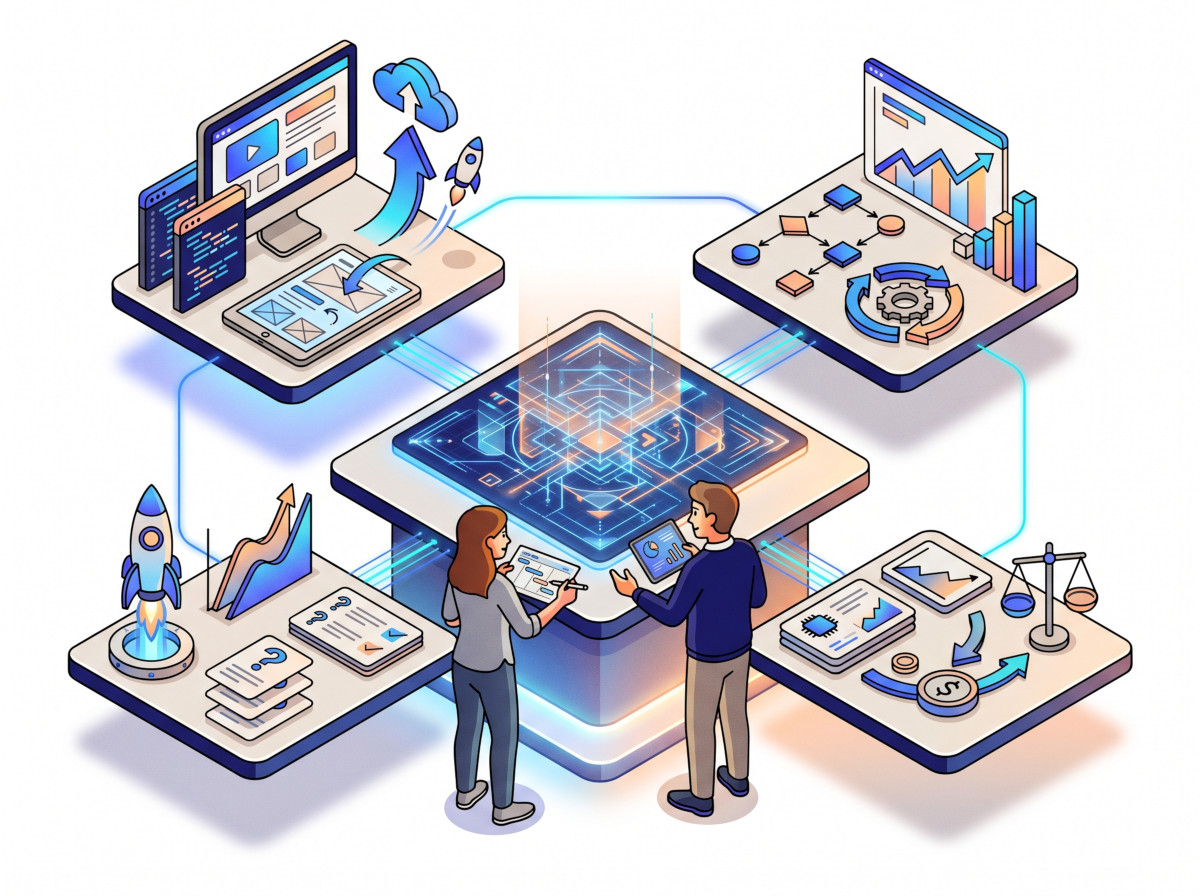
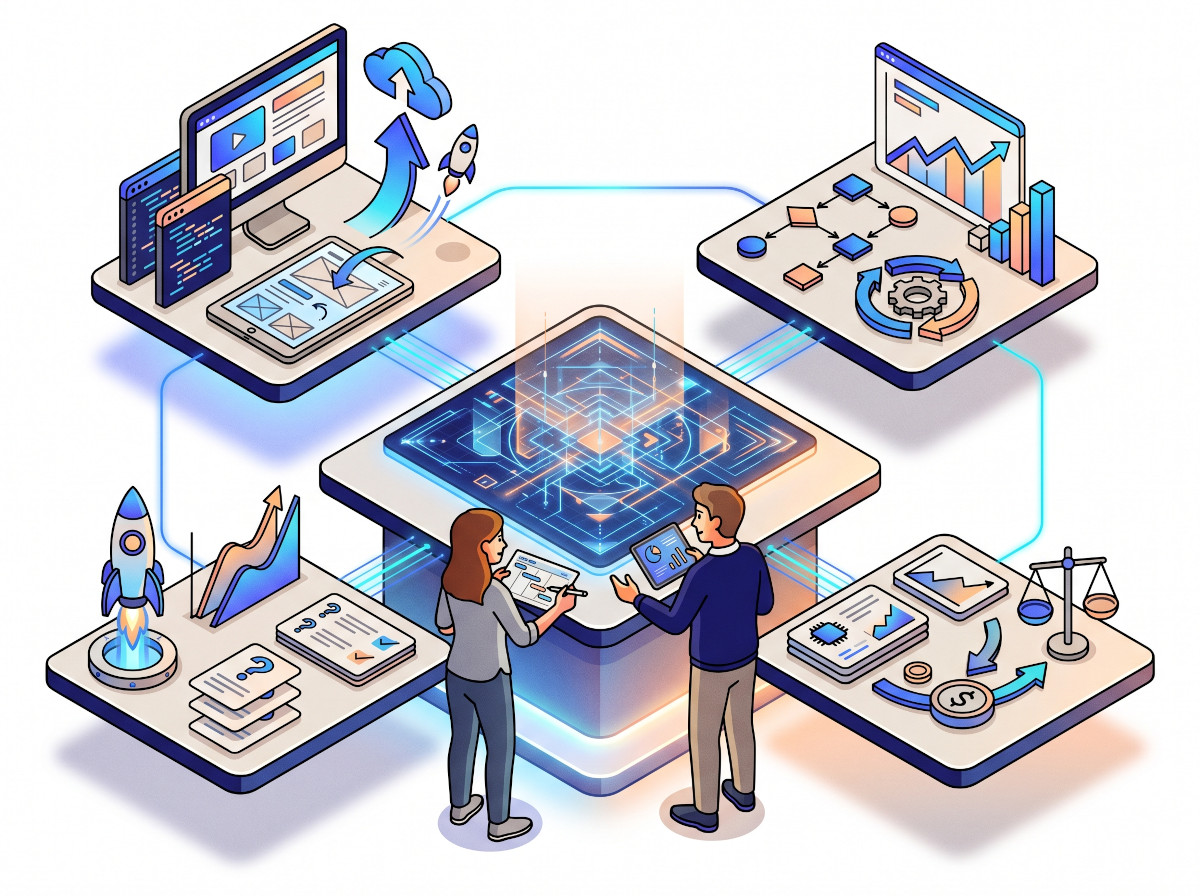
Update site visuals and service imagery

diff --git a/assets/css/main.css b/assets/css/main.css
@@ -1043,31 +1043,61 @@ p {
   align-content: start;
 }
 
-.direction-hero-visual {
+.direction-hero-visual,
+.service-hero-visual {
   min-height: 310px;
   border: 0;
-  border-radius: 0;
+  border-radius: var(--radius-lg);
   background-color: transparent;
   background-position: center;
   background-repeat: no-repeat;
-  background-size: contain;
-  overflow: visible;
+  background-size: cover;
+  aspect-ratio: 1200 / 896;
+  overflow: hidden;
 }
 
 .direction-hero-visual--studio {
-  background-image: url("../images/direction-studio.svg?v=2");
+  background-image: url("../images/axionica_studio_img.jpg");
 }
 
 .direction-hero-visual--consulting {
-  background-image: url("../images/direction-consulting.svg?v=2");
+  background-image: url("../images/axionica_consulting_img.jpg");
 }
 
 .direction-hero-visual--accelerator {
-  background-image: url("../images/direction-accelerator.svg?v=2");
+  background-image: url("../images/axionica_acceleration_img.jpg");
 }
 
 .direction-hero-visual--capital {
-  background-image: url("../images/direction-capital.svg?v=2");
+  background-image: url("../images/axionica_capital_img.jpg");
+}
+
+.service-hero-visual--discovery {
+  background-image: url("../images/service_discovery_img.jpg");
+}
+
+.service-hero-visual--development {
+  background-image: url("../images/service_development_img.jpg");
+}
+
+.service-hero-visual--consulting {
+  background-image: url("../images/service_consulting_img.jpg");
+}
+
+.service-hero-visual--ai-automation {
+  background-image: url("../images/service_aiautomation_img.jpg");
+}
+
+.service-hero-visual--ai-education {
+  background-image: url("../images/service_aieducation_img.jpg");
+}
+
+.service-hero-visual--tracking {
+  background-image: url("../images/service_tracking_img.jpg");
+}
+
+.service-hero-visual--investpack {
+  background-image: url("../images/service_investpack_img.jpg");
 }
 
 .breadcrumbs {
@@ -1374,7 +1404,8 @@ p {
     padding-bottom: 32px;
   }
 
-  .direction-hero-visual {
+  .direction-hero-visual,
+  .service-hero-visual {
     min-height: 240px;
   }
 
@@ -1432,7 +1463,8 @@ p {
     padding: 56px 0 24px;
   }
 
-  .direction-hero-visual {
+  .direction-hero-visual,
+  .service-hero-visual {
     min-height: 190px;
   }
 

diff --git a/ru/it-consulting.html b/ru/it-consulting.html
@@ -75,12 +75,15 @@
                 <li><span aria-current="page">IT-консалтинг</span></li>
               </ol>
             </nav>
-            <div class="section-heading fade-in">
+            <div class="page-hero-grid">
+              <div class="section-heading fade-in">
               <h1>IT-консалтинг для процессов, архитектуры и управляемой разработки</h1>
               <p>
                 Разбираем бизнес-процессы, IT-ландшафт, процессы разработки, архитектуру и программную реализацию,
                 чтобы найти ограничения, снизить операционные и трансакционные издержки и вернуть прозрачность решений.
               </p>
+              </div>
+              <div class="service-hero-visual service-hero-visual--consulting fade-in" aria-hidden="true"></div>
             </div>
           </div>
         </section>

diff --git a/ru/product-studio.html b/ru/product-studio.html
@@ -75,12 +75,15 @@
                 <li><span aria-current="page">Заказная разработка</span></li>
               </ol>
             </nav>
-            <div class="section-heading fade-in">
+            <div class="page-hero-grid">
+              <div class="section-heading fade-in">
               <h1>Разработка продукта с понятной логикой работы и реализации</h1>
               <p>
                 Эта услуга нужна, когда проекту важны и технологическая реализация, и ясная организация работы:
                 что делать первым, как структурировать delivery и как сохранить прозрачность для бизнеса.
               </p>
+              </div>
+              <div class="service-hero-visual service-hero-visual--development fade-in" aria-hidden="true"></div>
             </div>
           </div>
         </section>

diff --git a/ru/startup-packaging.html b/ru/startup-packaging.html
@@ -75,12 +75,15 @@
                 <li><span aria-current="page">Упаковка для инвесторов</span></li>
               </ol>
             </nav>
-            <div class="section-heading fade-in">
+            <div class="page-hero-grid">
+              <div class="section-heading fade-in">
               <h1>Упаковка стартапа для следующего разговора с инвестором или партнером</h1>
               <p>
                 Упаковка здесь означает не декоративный pitch deck, а работу над тем,
                 чтобы стартап был понятен по логике бизнеса, экономике, рискам и следующему шагу.
               </p>
+              </div>
+              <div class="service-hero-visual service-hero-visual--investpack fade-in" aria-hidden="true"></div>
             </div>
           </div>
         </section>

diff --git a/ru/discovery.html b/ru/discovery.html
@@ -75,12 +75,15 @@
                 <li><span aria-current="page">Discovery / аудит</span></li>
               </ol>
             </nav>
-            <div class="section-heading fade-in">
+            <div class="page-hero-grid">
+              <div class="section-heading fade-in">
               <h1>Подготовка к разработке, которая помогает не сжечь бюджет на старте</h1>
               <p>
                 Discovery нужен, когда важно сначала понять задачу и риски, а потом уже писать код.
                 Это этап, который помогает прояснить scope, архитектуру, roadmap, экономику и приоритеты.
               </p>
+              </div>
+              <div class="service-hero-visual service-hero-visual--discovery fade-in" aria-hidden="true"></div>
             </div>
           </div>
         </section>

diff --git a/ru/ai-training.html b/ru/ai-training.html
@@ -76,12 +76,15 @@
                 <li><span aria-current="page">ИИ-обучение сотрудников</span></li>
               </ol>
             </nav>
-            <div class="section-heading fade-in">
+            <div class="page-hero-grid">
+              <div class="section-heading fade-in">
               <h1>ИИ-обучение сотрудников</h1>
               <p>
                 Обучаем сотрудников применять ИИ-инструменты в реальных рабочих задачах,
                 чтобы команда могла использовать ИИ аккуратно, осознанно и без постоянной внешней зависимости.
               </p>
+              </div>
+              <div class="service-hero-visual service-hero-visual--ai-education fade-in" aria-hidden="true"></div>
             </div>
           </div>
         </section>

diff --git a/ru/ai-automation.html b/ru/ai-automation.html
@@ -76,12 +76,15 @@
                 <li><span aria-current="page">ИИ-автоматизация процессов</span></li>
               </ol>
             </nav>
-            <div class="section-heading fade-in">
+            <div class="page-hero-grid">
+              <div class="section-heading fade-in">
               <h1>ИИ-автоматизация процессов</h1>
               <p>
                 Помогаем разобрать повторяемый бизнес-процесс, выбрать участок для автоматизации,
                 внедрить ИИ-инструменты и измерить результат до и после изменений.
               </p>
+              </div>
+              <div class="service-hero-visual service-hero-visual--ai-automation fade-in" aria-hidden="true"></div>
             </div>
           </div>
         </section>

diff --git a/ru/startup-tracking.html b/ru/startup-tracking.html
@@ -75,12 +75,15 @@
                 <li><span aria-current="page">Стартап-трекинг</span></li>
               </ol>
             </nav>
-            <div class="section-heading fade-in">
+            <div class="page-hero-grid">
+              <div class="section-heading fade-in">
               <h1>Трекинг стартапа от идеи и MVP до первых признаков роста</h1>
               <p>
                 Эта страница про работу со стартапом после первых запусков:
                 гипотезы, трекинг, упаковку и подготовку к следующему этапу.
               </p>
+              </div>
+              <div class="service-hero-visual service-hero-visual--tracking fade-in" aria-hidden="true"></div>
             </div>
           </div>
         </section>

diff --git a/en/product-studio.html b/en/product-studio.html
@@ -75,12 +75,15 @@
                 <li><span aria-current="page">Custom development</span></li>
               </ol>
             </nav>
-            <div class="section-heading fade-in">
+            <div class="page-hero-grid">
+              <div class="section-heading fade-in">
               <h1>Product development with a clear working model and implementation logic</h1>
               <p>
                 This service is relevant when a project needs both technical execution and a clear way of working:
                 what to build first, how to structure delivery and how to keep the process transparent for the business.
               </p>
+              </div>
+              <div class="service-hero-visual service-hero-visual--development fade-in" aria-hidden="true"></div>
             </div>
           </div>
         </section>

diff --git a/en/discovery.html b/en/discovery.html
@@ -75,12 +75,15 @@
                 <li><span aria-current="page">Discovery / audit</span></li>
               </ol>
             </nav>
-            <div class="section-heading fade-in">
+            <div class="page-hero-grid">
+              <div class="section-heading fade-in">
               <h1>Preparation for development that helps avoid burning budget too early</h1>
               <p>
                 Discovery is useful when the right first step is not writing code, but understanding the problem,
                 the risks and the real product scope. It helps clarify architecture, roadmap, economics and priorities.
               </p>
+              </div>
+              <div class="service-hero-visual service-hero-visual--discovery fade-in" aria-hidden="true"></div>
             </div>
           </div>
         </section>

diff --git a/en/it-consulting.html b/en/it-consulting.html
@@ -75,12 +75,15 @@
                 <li><span aria-current="page">IT consulting</span></li>
               </ol>
             </nav>
-            <div class="section-heading fade-in">
+            <div class="page-hero-grid">
+              <div class="section-heading fade-in">
               <h1>IT consulting for processes, architecture and controlled delivery</h1>
               <p>
                 We review business processes, IT landscape, development workflow, architecture and implementation
                 to find constraints, reduce operational and transaction costs, and make IT decisions more transparent.
               </p>
+              </div>
+              <div class="service-hero-visual service-hero-visual--consulting fade-in" aria-hidden="true"></div>
             </div>
           </div>
         </section>

diff --git a/en/startup-packaging.html b/en/startup-packaging.html
@@ -75,12 +75,15 @@
                 <li><span aria-current="page">Investor packaging</span></li>
               </ol>
             </nav>
-            <div class="section-heading fade-in">
+            <div class="page-hero-grid">
+              <div class="section-heading fade-in">
               <h1>Packaging a startup for the next conversation with an investor or partner</h1>
               <p>
                 Packaging here does not mean a decorative pitch deck. It means work on making the startup
                 understandable through business logic, economics, risks and the next step.
               </p>
+              </div>
+              <div class="service-hero-visual service-hero-visual--investpack fade-in" aria-hidden="true"></div>
             </div>
           </div>
         </section>
